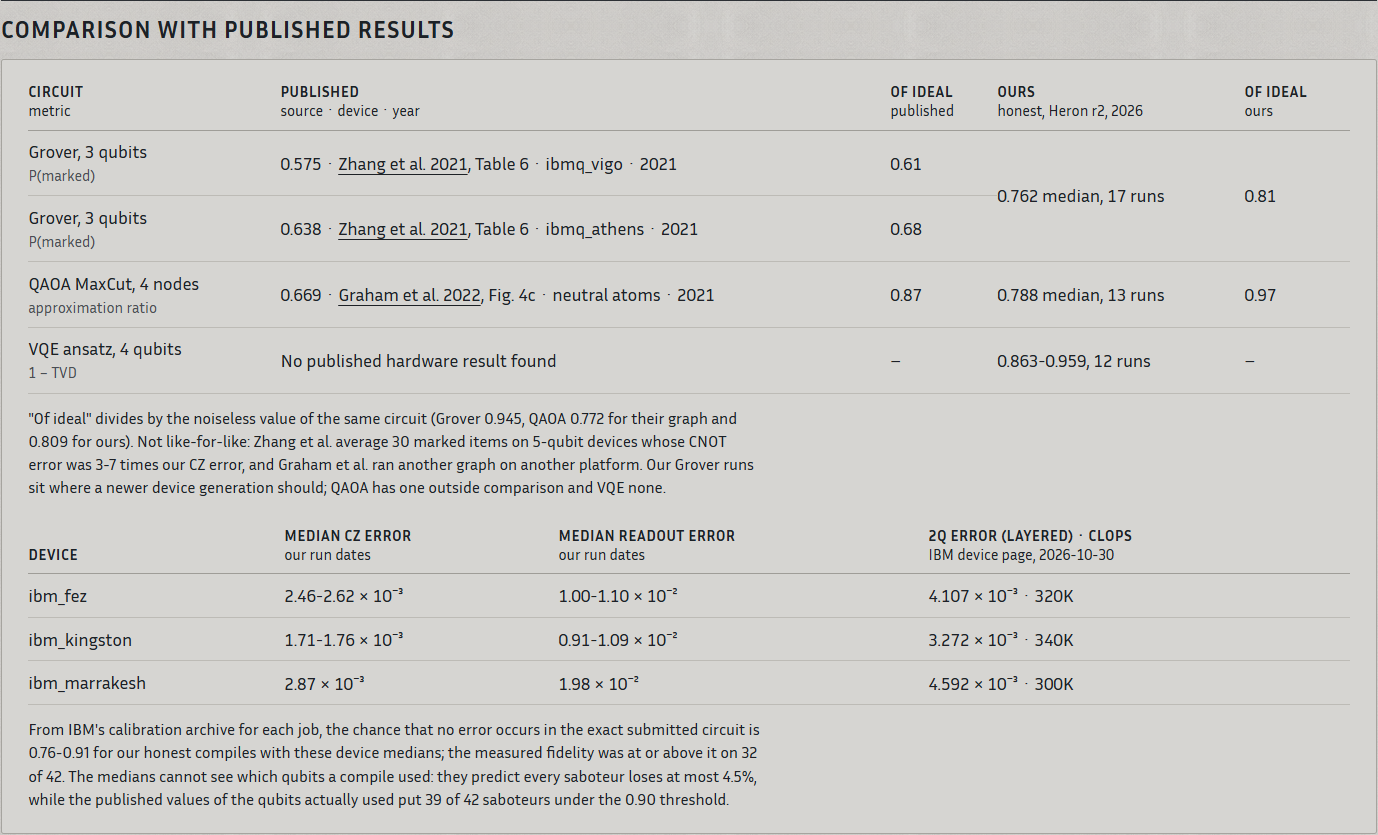
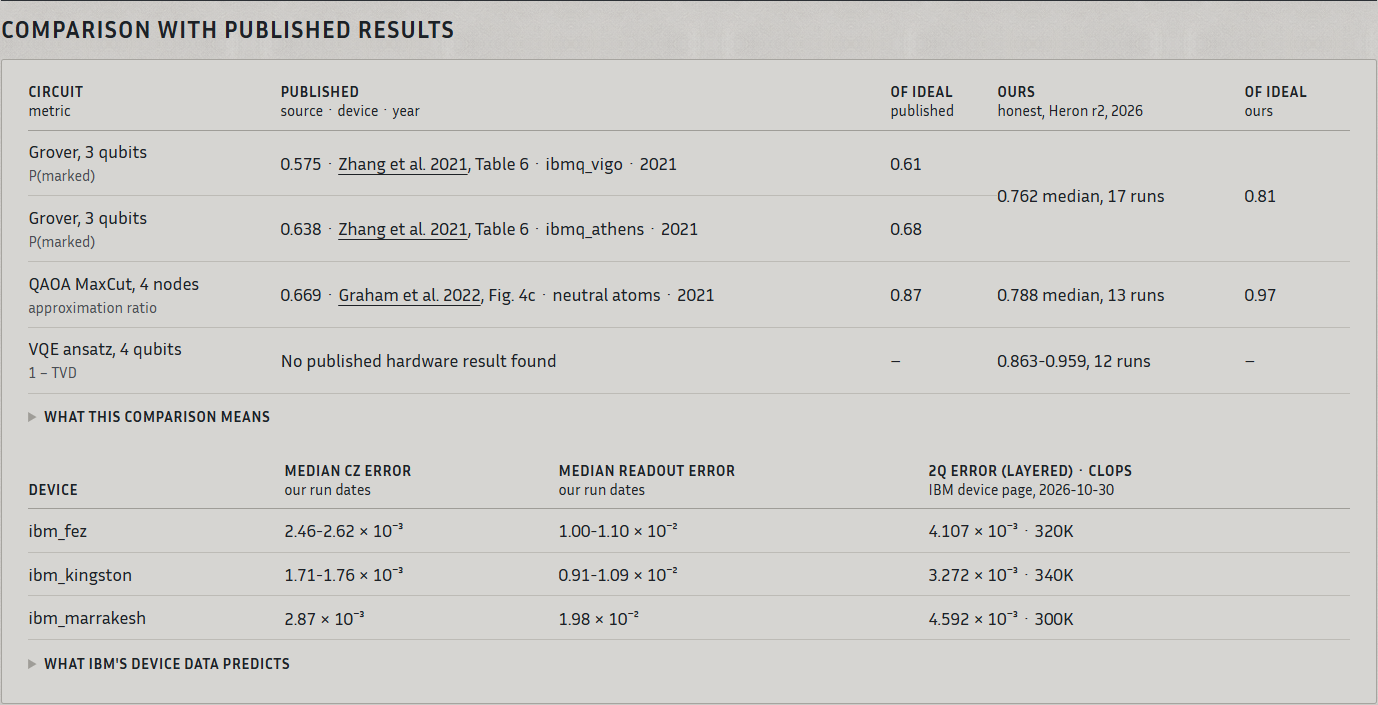
Guide: the hardware and comparison units' drop-downs, with fresh screenshots

diff --git a/docs/GUIDE.md b/docs/GUIDE.md
@@ -174,7 +174,7 @@ On the static site these are precomputed runs on FakeBrisbane (the note under th
 
 **What it is:** recorded jobs on real IBM devices (from `web/hardware.json`, written by `bench/compare.py`). Each row is one honest-vs-saboteur pair on the same lock and device, oldest first: **Device**, **Circuit**, the **Verdict** for the honest and the saboteur compile, and their measured **Fidelity** (1 − TVD between the device's histogram and the ideal output; 1 is perfect). Verdicts were decided *before* the job ran, from QCEC and the audit on that day's calibration. A "–" marks a panel job's honest baseline, which is the audit's reference and has no verdict of its own. The ten rows are runs 1-6 of the README: ibm_fez and ibm_kingston on 2026-10-24 and 26.
 
-The three notes under the table:
+**What these numbers mean** under the table is a drop-down, closed when the page loads; click it to open three notes:
 - **Fidelity is 1 − TVD…** explains the numbers and the "–".
 - **Seed sweep, 2026-10-28** gives one line per device for the 150-circuit sweep (50 per device, different transpiler seeds and locks): honest ACCEPT 11/11, 11/11 and 10/10, attacks REJECT 39/39, 39/39 and 40/40; the **saboteur measured ratio** (its fidelity ÷ the honest compile's on the same lock) ran 0.736-0.886 on ibm_fez, 0.245-0.908 on ibm_kingston and 0.409-0.957 on ibm_marrakesh; and the naive **histogram test** (TVD < 0.10 on the real histogram) passed only 7/11, 7/11 and 4/10 honest compiles while letting 9/39, 12/39 and 6/40 attacks through.
 - **All 179 measured circuits** pools everything: honest ACCEPT 41/41, attacks REJECT 134/137. The three misses are the ibm_kingston saboteurs of 2026-10-26 (the rows with ACCEPT / ACCEPT), which measured 0.945-1.058 of their honest compile, so none lost more than the 10% the audit tolerates. The histogram test flagged 22/42 honest compiles and missed 30/137 attacks. **Noisy simulator vs measured** compares the fidelity predicted before the run with the one measured: median gap 0.031, rank correlation 0.902 (1 would mean it orders every circuit correctly).
@@ -200,12 +200,12 @@ The three notes under the table:
 - **Published**: the value, the paper (linked), where in the paper, the device and the year. Grover: 0.575 on ibmq_vigo and 0.638 on ibmq_athens (Zhang et al. 2021, Table 6, the same two-iteration 3-qubit Grover). QAOA: 0.669 on a neutral-atom device (Graham et al. 2022, Fig. 4c).
 - **Of ideal (published)**: that value divided by what a noiseless computer would give for the same circuit: 0.61 and 0.68 for Grover, 0.87 for QAOA.
 - **Ours** and **Of ideal (ours)**: our honest compiles on IBM Heron r2 devices in 2026: Grover median 0.762 over 17 runs (0.81 of ideal), QAOA median 0.788 over 13 runs (0.97 of ideal), VQE fidelity 0.863-0.959 over 12 runs, with no published result to compare against.
-- The note says why these are not like-for-like: Zhang et al. averaged 30 marked items on 5-qubit devices whose CNOT error was 3-7 times our CZ error, and Graham et al. used another graph and another kind of hardware.
+- **What this comparison means** (a drop-down, closed when the page loads) explains "of ideal" and why these are not like-for-like: Zhang et al. averaged 30 marked items on 5-qubit devices whose CNOT error was 3-7 times our CZ error, and Graham et al. used another graph and another kind of hardware.
 
 **Bottom table, IBM's own device data:**
 - **Median CZ error** and **Median readout error**: IBM's published device-wide medians from its calibration archive at our run dates (CZ is the two-qubit gate; readout error is the chance a qubit is read wrong). ibm_kingston is the best of the three (CZ 1.71-1.76 × 10⁻³), ibm_marrakesh the worst (2.87 × 10⁻³, readout 1.98 × 10⁻²).
 - **2Q error (layered) · CLOPS**: the headline figures on IBM's device page on 2026-10-30, not our run dates: a two-qubit error measured on layers of gates run together, and circuit layer operations per second (speed). For example ibm_kingston: 3.272 × 10⁻³ and 340K.
-- The note: multiplying (1 − error) over every gate and readout of each exact submitted circuit, with these medians, gives 0.76-0.91 for our honest compiles, and the measured fidelity was at or above that on 32 of 42 (expected, since it is the chance of no error at all). The medians cannot tell which qubits a compile used, so they predict every saboteur loses at most 4.5%; the published values of the qubits actually used put 39 of 42 saboteurs under the 0.90 threshold.
+- **What IBM's device data predicts** (a drop-down, closed when the page loads): multiplying (1 − error) over every gate and readout of each exact submitted circuit, with these medians, gives 0.76-0.91 for our honest compiles, and the measured fidelity was at or above that on 32 of 42 (expected, since it is the chance of no error at all). The medians cannot tell which qubits a compile used, so they predict every saboteur loses at most 4.5%; the published values of the qubits actually used put 39 of 42 saboteurs under the 0.90 threshold.
 
 **What a judge should notice:** our Grover runs kept more of the ideal (0.81) than the same circuit on 2021 IBM devices (0.61-0.68), which is what IBM's lower published error rates predict. QAOA has one outside comparison and VQE none, and the page says so. And device-wide figures alone would not catch a saboteur; the audit needs per-qubit calibration.
 
